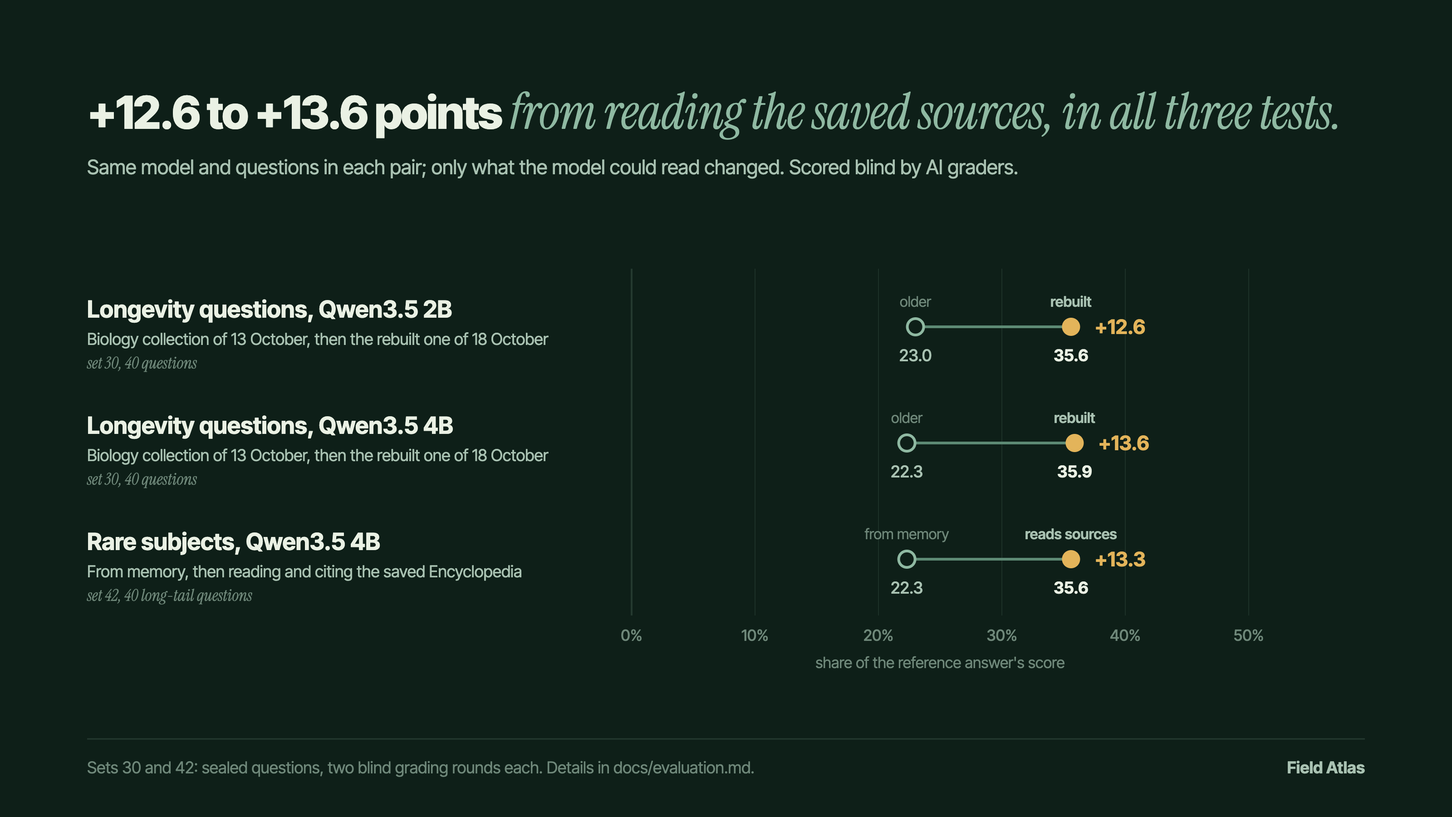
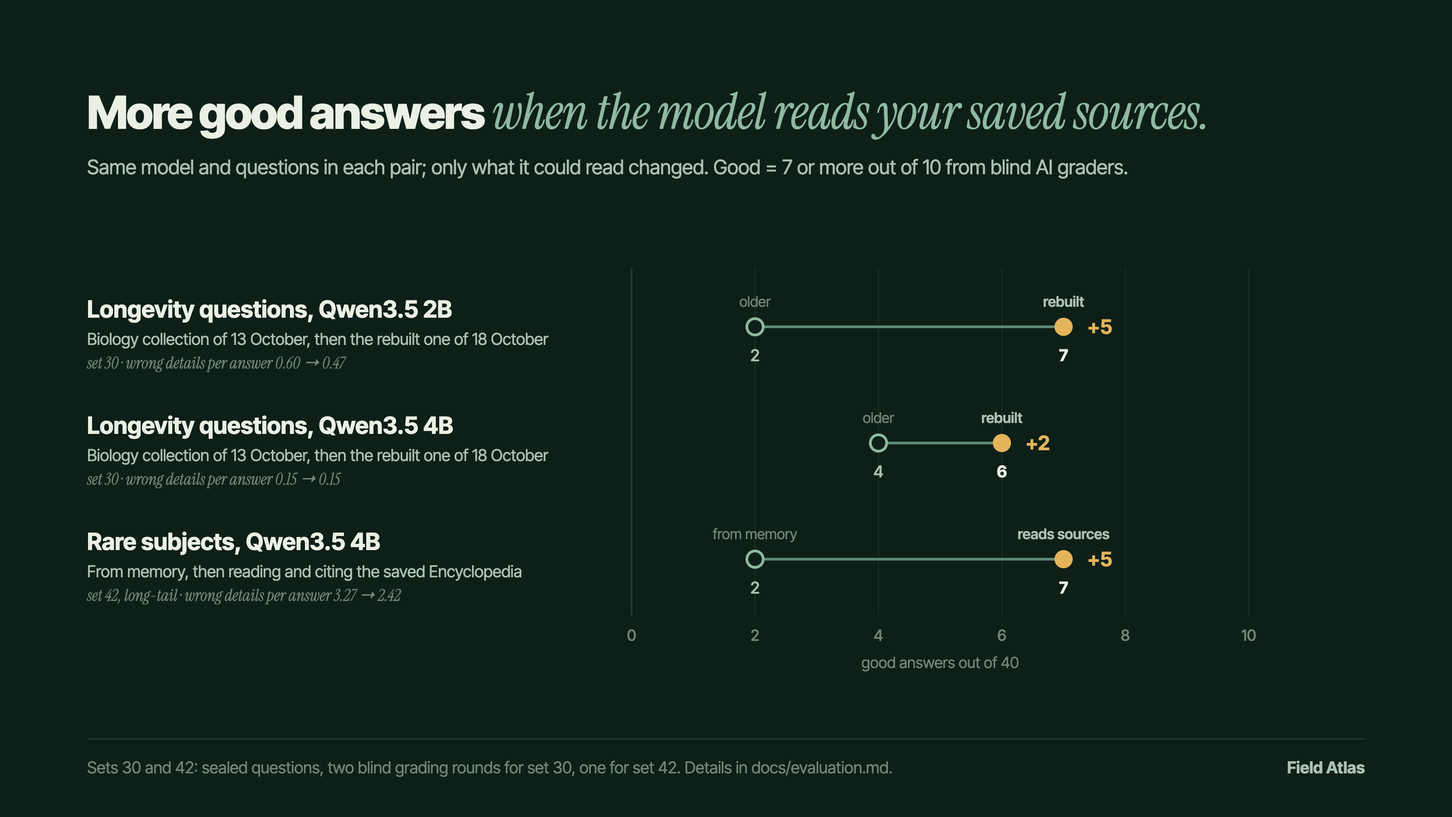
Count good answers, and show storage with everything installed
Results now lead with how many questions get a good answer (7 or more out
of 10 from the blind graders) and how many wrong details an answer
carries. On set 37: Gemma 4 26B 27 of 40 (0.44 wrong details per answer),
Qwen3.5 4B 8 (1.94), Qwen3.5 2B 2 (0.71). The rebuilt Biology collection
took the 2B from 2 to 7 good answers and the 4B from 4 to 6; reading the
Encyclopedia took the 4B from 2 to 7 on rare subjects.

With all three models, every collection and the voice installed, Android
reports 47.58 GB. The README, release notes, MODELS, DATASETS, the
how-it-works page and its figures use these counts.

diff --git a/tools/charts/make_charts.py b/tools/charts/make_charts.py
@@ -109,22 +109,32 @@ def axis(x_of, ticks, top, base_y, caption):
     return out
 
 
+def axis_counts(x_of, ticks, top, base_y, caption):
+    out = ""
+    for v in ticks:
+        x = x_of(v)
+        out += f'<line x1="{x:.1f}" y1="{top}" x2="{x:.1f}" y2="{base_y}" stroke="{RULE if v == ticks[0] else GRID}" stroke-width="{2 if v == ticks[0] else 1}"/>'
+        out += text(x, base_y + 28, f"{v}", 17, FAINT, 500, anchor="middle")
+    out += text((x_of(ticks[0]) + x_of(ticks[-1])) / 2, base_y + 58, caption, 17, FAINT, anchor="middle")
+    return out
+
+
 def ladder(data):
+    # Counted the way Field Atlas measures itself: how many questions got a good answer (7 or more out of 10 from
+    # blind graders), beside how many wrong details an answer carries.
     d = data["ladder"]
     rows = d["rows"]
-    shares = ", ".join(f"{r['share']:.0f}%" for r in rows)
-    body = heading(
-        (f"{shares},", f" the same {d['questions']} questions on three sizes of phone."),
-        "Each answer scored against a web-researched reference answer by AI graders that did not know which setup wrote it.",
-    )
+    n = d["questions"]
+    counts = ", ".join(str(r["good"]) for r in rows[:-1]) + " and " + str(rows[-1]["good"])
+    body = heading((f"{counts} good answers out of {n},", " by phone size."), d["method"])
     top, row_h, bar_h = 300, 132, 44
     scale_x, scale_w = X0 + 470, 720
-    base_y = top + row_h * len(rows) - 20
 
     def x_of(v):
-        return scale_x + scale_w * v / 100
+        return scale_x + scale_w * v / n
 
-    body += axis(x_of, [0, 25, 50, 75, 100], top - 4, base_y, "share of the reference answer's score")
+    base_y = top + row_h * len(rows) - 20
+    body += axis_counts(x_of, list(range(0, n + 1, 10)), top - 4, base_y, f"questions out of {n} with a good answer")
     body += text(X1, top - 2, "wrong details", 17, FAINT, 600, anchor="end")
     body += text(X1, top + 20, "per answer", 17, FAINT, 600, anchor="end")
     fills = [SAGE_1, SAGE_2, AMBER]
@@ -133,55 +143,48 @@ def ladder(data):
         best = i == len(rows) - 1
         body += text(X0, y + 22, r["model"], 27, INK, 700)
         body += text(X0, y + 52, f"{r['phone']}, {r['route']}", 18, DIM)
-        w = x_of(r["share"]) - scale_x
+        w = max(x_of(r["good"]) - scale_x, 3)
         body += f'<rect x="{scale_x}" y="{y}" width="{w:.1f}" height="{bar_h}" rx="2" fill="{fills[i % 3]}"/>'
-        body += text(scale_x + w + 14, y + 32, f"{r['share']:.1f}%", 27, AMBER if best else INK, 700)
+        body += text(scale_x + w + 14, y + 32, f"{r['good']} of {n}", 27, AMBER if best else INK, 700)
         body += text(X1, y + 32, f"{r['errors']:.2f}", 27, DIM, 600, anchor="end")
-    return frame(body, "Answer quality by phone size", d["sourceLine"])
+    return frame(body, "Good answers by phone size", d["sourceLine"])
 
 
 def collections(data):
     d = data["collections"]
     rows = d["rows"]
-    gains = [r["after"] - r["before"] for r in rows]
-    body = heading(
-        (f"+{min(gains):.1f} to +{max(gains):.1f} points", " from reading the saved sources, in all three tests."),
-        "Same model and questions in each pair; only what the model could read changed. Scored blind by AI graders.",
-    )
+    n = d["questions"]
+    body = heading(("More good answers", " when the model reads your saved sources."), d["method"])
     top, row_h = 300, 128
-    scale_x, scale_w, lo, hi = X0 + 600, 680, 0, 50
-    base_y = top + row_h * len(rows) - 6
+    scale_x, scale_w, lo, hi = X0 + 600, 680, 0, 10
 
     def sx(v):
         return scale_x + scale_w * (v - lo) / (hi - lo)
 
-    body += axis(sx, list(range(lo, hi + 1, 10)), top - 4, base_y, "share of the reference answer's score")
+    base_y = top + row_h * len(rows) - 6
+    body += axis_counts(sx, list(range(lo, hi + 1, 2)), top - 4, base_y, f"good answers out of {n}")
     for i, r in enumerate(rows):
         y = top + 26 + i * row_h
         cy = y + 34
         body += text(X0, y + 24, r["label"], 26, INK, 700)
         body += text(X0, y + 54, r["detail"], 18, DIM)
-        body += text(X0, y + 80, r["set"], 18, FAINT, italic=True, family=SERIF)
+        body += text(X0, y + 80, f"{r['set']} · wrong details per answer {r['errorsBefore']:.2f} → {r['errorsAfter']:.2f}", 18, FAINT, italic=True, family=SERIF)
         a, b = sx(r["before"]), sx(r["after"])
         body += f'<line x1="{a:.1f}" y1="{cy}" x2="{b:.1f}" y2="{cy}" stroke="{SAGE_2}" stroke-width="3"/>'
         body += f'<circle cx="{a:.1f}" cy="{cy}" r="9" fill="{GROUND}" stroke="{SAGE_3}" stroke-width="3"/>'
         body += f'<circle cx="{b:.1f}" cy="{cy}" r="10" fill="{AMBER}"/>'
         body += text(a, cy - 22, r["beforeLabel"], 16, FAINT, anchor="middle")
-        body += text(a, cy + 38, f"{r['before']:.1f}", 18, DIM, 500, anchor="middle")
+        body += text(a, cy + 38, f"{r['before']}", 18, DIM, 500, anchor="middle")
         body += text(b, cy - 22, r["afterLabel"], 16, DIM, 600, anchor="middle")
-        body += text(b, cy + 38, f"{r['after']:.1f}", 18, INK, 700, anchor="middle")
-        body += text(b + 26, cy + 8, f"+{r['after'] - r['before']:.1f}", 22, AMBER, 700)
+        body += text(b, cy + 38, f"{r['after']}", 18, INK, 700, anchor="middle")
+        body += text(b + 26, cy + 8, f"+{r['after'] - r['before']}", 22, AMBER, 700)
     return frame(body, "What the saved sources add", d["sourceLine"])
 
 
 def storage(data):
     d = data["storage"]
     budget = d["budgetGB"]
-    used = sum(p["gb"] for p in d["parts"])
-    body = heading(
-        (f"{used:.1f} GB of {budget},", " with every model, collection and voice installed."),
-        "Both answer models, all seven collections and the natural voice, downloaded through the app on a 12 GB Android emulator.",
-    )
+    body = heading((f"{d['measuredGB']:.2f} GB of {budget},", " with every model, collection and voice installed."), d["method"])
     y0, bh = 400, 60
     bw = X1 - X0
 
@@ -201,19 +204,17 @@ def storage(data):
     # Label the segments where they are instead of in a legend.
     (a0, b0, p0), (a1, b1, p1) = segments[0], segments[1]
     body += text(a0 + 18, y0 + 39, f"{p0['label']}, {p0['gb']:.2f} GB", 21, GROUND, 700)
-    mid1 = (a1 + b1) / 2
-    body += f'<line x1="{mid1:.1f}" y1="{y0 - 6}" x2="{mid1:.1f}" y2="{y0 - 28}" stroke="{SAGE_3}" stroke-width="1.5"/>'
-    body += text(mid1 + 8, y0 - 38, f"{p1['label']}, {p1['gb']:.2f} GB", 18, INK, 600, anchor="end")
+    body += text((a1 + b1) / 2, y0 + 39, f"{p1['label']}, {p1['gb']:.2f} GB", 19, GROUND, 700, anchor="middle")
     rest = segments[2:]
     small = sum(p["gb"] for _, _, p in rest)
     mid2 = (rest[0][0] + rest[-1][1]) / 2
     body += f'<line x1="{mid2:.1f}" y1="{y0 + bh + 6}" x2="{mid2:.1f}" y2="{y0 + bh + 28}" stroke="{AMBER}" stroke-width="1.5"/>'
     rest_label = " and ".join(p["label"].lower() for _, _, p in rest)
-    body += text(mid2, y0 + bh + 52, f"{rest_label}, {small * 1000:.0f} MB", 18, INK, 600, anchor="middle")
-    gm = gx(d["withGemmaGB"])
-    body += f'<line x1="{gm:.1f}" y1="{y0 - 72}" x2="{gm:.1f}" y2="{y0 + bh + 28}" stroke="{DIM}" stroke-width="2" stroke-dasharray="5 5"/>'
-    body += text(gm + 12, y0 - 58, "with Gemma 4 26B", 18, DIM, 600)
-    body += text(gm + 12, y0 - 34, f"about {d['withGemmaGB']} GB", 18, DIM, 600)
+    body += text(mid2 + 12, y0 + bh + 52, f"{rest_label}, {small * 1000:.0f} MB", 18, INK, 600, anchor="end")
+    # What is left under the limit, named above its own slice of the bar.
+    free = budget - d["measuredGB"]
+    body += f'<line x1="{(gx(d["measuredGB"]) + X1) / 2:.1f}" y1="{y0 - 6}" x2="{(gx(d["measuredGB"]) + X1) / 2:.1f}" y2="{y0 - 28}" stroke="{DIM}" stroke-width="1.5"/>'
+    body += text(X1, y0 - 38, f"{free:.2f} GB to spare", 19, DIM, 600, anchor="end")
     for gb in range(0, budget + 1, 10):
         anchor = "start" if gb == 0 else ("end" if gb == budget else "middle")
         body += text(gx(gb), y0 + bh + 100, f"{gb} GB", 16, FAINT, anchor=anchor)

diff --git a/docs/releases/current.md b/docs/releases/current.md
@@ -45,8 +45,8 @@ on the phone, with no account and nothing sent anywhere.
 - **Rare subjects are read from the collections.** A subject few readers meet — one the Simple
   English edition lacks and that is named in few saved passages, or one a specialist collection
   holds — is answered from the saved sources, cited sentence by sentence, instead of from the
-  model's memory, which invents on such subjects. On 40 obscure questions graded blind the 4B went
-  from 22% to 36% of web-and-AI answers; famous subjects are untouched
+  model's memory, which invents on such subjects. On 40 obscure questions graded blind the 4B gave a good answer to 7 instead of 2,
+  with fewer wrong details; famous subjects are untouched
   ([details](../evaluation.md#reading-the-sources-for-subjects-few-readers-meet-october-20)).
 - **Every answer in one shape, sources at the foot.** An answer written from the model's own knowledge
   opens with a short paragraph that answers outright, then **Key facts** as bullets, then **Caveats**
@@ -60,12 +60,12 @@ on the phone, with no account and nothing sent anywhere.
   less for GPS; the progress line gives the measured range of recent answers ("Usually 3–4 min").
 - **A much larger Biology & longevity collection.** It now holds 48,286 open-access ageing and
   longevity papers from PubMed Central, each under CC BY or CC0, with genetics summaries and three
-  more ageing databases: 900,714 passages, a 1.08 GB download (2.86 GB installed). On 40 new
-  longevity questions graded blind, answers went from 23% to 36% of web-and-AI answers with
-  either model. Phones with the earlier edition are offered it as an update in Library.
+  more ageing databases: 900,714 passages, a 1.08 GB download (2.86 GB installed). On 40 new longevity questions graded blind, good answers went from 2 to 7 with
+  Qwen3.5 2B and from 4 to 6 with Qwen3.5 4B. Phones with the earlier edition are offered it as an update in Library.
 - **Questions about your own files answer far more often.** A question asked with a file reads more of
   it, and a correct answer is no longer withheld by the model's own review. On 24 new file questions
-  graded blind, answers went from 32% to 41% of web-and-AI answers, and refusals from 7 to 1
+  graded blind, refusals went from 7 to 1 and good answers from 4 to 5, with more wrong details
+  to check
   ([details](../evaluation.md#questions-about-your-own-files-october-18)). Asking to "use my library"
   in the question adds the downloaded collections as before. A question about taking a medicine in
   the file (a dose, how often, until when, a missed dose) also shows the file's own lines on it, word
@@ -74,8 +74,8 @@ on the phone, with no account and nothing sent anywhere.
   The answer itself is not changed, so a wrong sentence in it stays: read the quoted lines.
 - **An answer instead of "the excerpts do not say".** When none of the passages found is about the
   question, the model now answers from what it knows, labelled as not checked against your sources, instead of saying
-  the passages miss it. On the 8 answers this changed, graded blind, they went from 10% to 67% of
-  web-and-AI answers, with more wrong details to check
+  the passages miss it. On the 8 answers this changed, graded blind, 5 of the 8 became good answers, where none had been, with more wrong
+  details to check
   ([details](../evaluation.md#answering-when-the-excerpts-miss-the-question-october-19)). A
   swallowed battery, however it is described, opens the poisoning guide.
 - **Word problems that name places** ("leaves Tokyo at 17:05 … UTC+9") are worked from their own
@@ -87,8 +87,8 @@ on the phone, with no account and nothing sent anywhere.
 - **Answers from the model's own knowledge.** With Qwen3.5 4B or Gemma 4 26B, an ordinary question
   is answered from what the model knows, with one line under it saying so and what was checked
   ("From the model's knowledge; 2 figures match your sources"), and the passages found listed under
-  it to check. On 40 new questions graded blind, the 4B went from 33.7% to 41.8% of web-and-AI
-  answers, and Gemma 4 26B, which reasons before it answers, reached 70.2%
+  it to check. On 40 new questions graded blind, the 4B gave a good answer to 8 instead
+  of 4, and Gemma 4 26B, which reasons before it answers, to 27
   ([details](../evaluation.md#answers-from-the-models-own-knowledge-and-a-model-for-12-gb-phones-october-19-20)).
   These answers have more wrong details than cited ones, so check the passages. Qwen3.5 2B still
   answers from the passages, with citations. Emergencies, places, files, phrases and calculations
@@ -118,17 +118,16 @@ on the phone, with no account and nothing sent anywhere.
 
 ## How good is it?
 
-- **With the new answer models:** on 40 new questions graded blind (set 37), Gemma 4 26B scores
-  **70.2%** of web-and-AI answers and Qwen3.5 4B **41.8%**, against 33.7% for the 4B and 26.0% for
-  the 2B answering from the passages
+- **With the new answer models:** on 40 new questions graded blind (set 37), Gemma 4 26B gives a good answer to
+  **27 of 40** and Qwen3.5 4B to **8**, against 4 for the 4B and 2 for the 2B answering from the passages
   ([details](../evaluation.md#answers-from-the-models-own-knowledge-and-a-model-for-12-gb-phones-october-19-20)).
   The 4B's answers have more wrong details than the 2B's cited ones (1.94 per answer against 0.71);
   Gemma's have fewer (0.44). These scores measure what each model knows: its answer is written
   without the saved passages, which are listed under it to check, so they do not show the
   collections improving those answers. They come from runs on a computer, not on a phone.
-- **Against web-and-AI answers:** on 120 new questions (two sets written after the changes and
-  graded blind twice), 1.4.2 scores **36.9%** of the web-and-AI answers with Qwen3.5 2B and
-  **38.2%** with Qwen3.5 4B. That is below the bounty's bar
+- **Citing the passages:** on 120 new questions (two sets written after the changes and
+  graded blind twice), 1.4.2 gives a good answer to **27** with Qwen3.5 2B and **28** with
+  Qwen3.5 4B, the 4B with half the wrong details (0.30 against 0.62 per answer). That is below the bounty's bar
   ([details](../evaluation.md#142-release-candidate-on-fresh-questions-october-17-18)).
 - **Single questions are where 1.4.1 left them.** 1.4.1 scored 29% on an earlier, harder set. On
   the same 60 questions, 1.4.1 scores 37.3% and 1.4.2 36.3%. The gains above are in follow-ups,

diff --git a/README.md b/README.md
@@ -81,35 +81,31 @@ file copied from another device: collections from Hugging Face
 
 ## How good is it?
 
-The bounty asks for an offline tool that is more than half as good as a web search plus a
-frontier AI model. We tested Field Atlas 1.4.2 on 120 new questions, in two sets written after the
-changes by AI models that had never seen the app's code, so the questions could not be tailored to
-what the app already handles well. Other AI models then scored each answer blind, on its own, and
-scored an answer researched on the web the same way. The result is Field Atlas's total as a share
-of the web answer's.
+We count how many questions get a **good answer** and how many **wrong details** an answer carries.
+Each question set is written blind and sealed before the app answers it. AI graders then score every
+answer from 0 to 10 next to a web-researched one, without knowing which setup wrote it, in two
+rounds. A good answer is one they score 7 or more. Every change is tested this way before it ships.
 
-- **36.9%** of the web-and-AI answers with Qwen3.5 2B and **38.2%** with Qwen3.5 4B, both answering
-  from the saved passages with citations. **Not there yet.** Citing, the 4B made half the factual
-  errors of the 2B (0.30 against 0.62 per answer).
-- **Answering from the model's own knowledge**, as the 4B and Gemma 4 26B now do: on 40 newer
-  questions (set 37), the 4B reached 41.8% against 26.0% for the cited 2B, but with more wrong
-  details (1.94 against 0.71 per answer), and Gemma 4 26B, reasoning first, 70.2% with 0.44. These
-  scores measure what the model knows: such an answer is written without the saved passages, which
-  are listed under it to check. They come from desktop runs; Gemma has been timed only on an Android
-  emulator, not on a 12 GB phone ([details](docs/evaluation.md#answers-from-the-models-own-knowledge-and-a-model-for-12-gb-phones-october-19-20)).
-- **Single questions are about where 1.4.1 left them.** On the same 60 questions 1.4.1 scores 37.3%
-  and 1.4.2 36.3%. (1.4.1's published 29% came from a harder set.) What 1.4.2 improves is
-  follow-up questions, emergencies told as statements, word problems and the 4B on 8 GB phones.
-- **Strongest:** quick facts (55%) and emergencies (54%).
-- **Weakest:** places in a named city (14%), cryptography (22%), explanations and synthesis (23%).
+![Good answers out of 40 sealed questions: Qwen3.5 2B 2, Qwen3.5 4B 8, Gemma 4 26B 27](docs/images/fieldatlas-models.png)
 
-![Share of the reference answer's score on 40 sealed questions: Qwen3.5 2B 26.0%, Qwen3.5 4B 41.8%, Gemma 4 26B 70.2%](docs/images/fieldatlas-models.png)
+- **Gemma 4 26B, on 12 GB phones:** a good answer to 27 of 40 new questions (set 37), with 0.44
+  wrong details per answer. It reasons first, then answers from what it knows.
+- **Qwen3.5 4B, on 6 and 8 GB phones:** 8 of 40, with 1.94 wrong details per answer. It answers from
+  what it knows, so it says more and gets more details wrong; the passages found are listed under
+  each answer to check it.
+- **Qwen3.5 2B, on 4 GB phones:** 2 of 40, with 0.71 wrong details per answer. It writes only from
+  the saved passages and cites them.
+- **Saved sources add good answers.** The rebuilt Biology collection took the 2B from 2 to 7 good
+  answers on 40 longevity questions; reading the Encyclopedia for subjects few people write about
+  took the 4B from 2 to 7 on 40 such questions, with fewer wrong details
+  ([how it works](docs/how-it-works.md)).
 
-The graders and the reference answers come from AI models of one family, so treat these numbers as
-our own measurement, not an independent score. Every question, answer and grade is published in
-[docs/fieldtest/results-1.4.2](docs/fieldtest/results-1.4.2/), and the
-[evaluation](docs/evaluation.md#142-release-candidate-on-fresh-questions-october-17-18) explains the
-method, including two changes that were tried and not adopted.
+These are desktop runs of the app's own answering code. Gemma has been timed only on an Android
+emulator, not on a 12 GB phone. The graders and the reference answers come from AI models of one
+family, so treat these numbers as our own measurement, not an independent score. Every question,
+answer and grade is published in [docs/fieldtest](docs/fieldtest/), and the
+[evaluation](docs/evaluation.md) explains each test, including changes that were tried and not
+adopted.
 
 ## Good to know
 
@@ -117,9 +113,10 @@ method, including two changes that were tried and not adopted.
   built from saved data take seconds.
 - **Answers can be wrong.** Open the cited passages to check them. Nothing here is medical advice.
 - Map listings, opening hours and menus can be out of date.
-- **Within the bounty's limits:** with both models, every collection and the voice installed, the app
-  takes 37.0 GB of storage and, on a 12 GB Android emulator in airplane mode, at most 6.8 GB of
-  memory while answering ([details](docs/evaluation.md#142-at-the-bountys-limits-on-an-android-emulator-october-18)).
+- **Within the bounty's limits:** with all three models, every collection and the voice installed,
+  Android reports 47.58 GB of storage for the app; on a 12 GB Android emulator in airplane mode it used
+  at most 6.8 GB of memory while answering with the 4B
+  ([details](docs/evaluation.md#good-answers-and-storage-with-everything-installed-october-21)).
 - Tested on a Redmi 13C (6 GB, Android 13) and that emulator. Not yet tested on a Pixel, on
   GrapheneOS or on a real 8 GB phone.
 

diff --git a/MODELS.md b/MODELS.md
@@ -49,8 +49,8 @@ Google's Gemma 4 E2B (QAT Q4_0, pinned at `google/gemma-4-E2B-it-qat-q4_0-gguf` 
[1 lines of base64/hex data omitted]
 after 1.4.0 and was never released.
 
-- On 180 development questions it seemed better: 44.2% of the reference answers against 40.7%
-  for Qwen3.5 2B, with half as many factual errors. Those questions had been seen during
+- On 180 development questions it seemed better than Qwen3.5 2B, with half as many factual
+  errors. Those questions had been seen during
   development.
 - On a Redmi 13C, 20 fresh questions were asked in the installed app with each model and
   graded blind by two graders. Qwen3.5 2B scored 4.65 of 10 against 3.75. Gemma still made fewer
@@ -65,8 +65,7 @@ Gemma 4 E2B is therefore not offered.
 Version 1.4.0 offered Qwen3.5 4B on phones with 8 GB of memory, and 1.4.1 did not. Version 1.4.2
 offers it from 6 GB, first in setup, with Qwen3.5 2B still listed below it; on a phone with less
 memory only the 2B is offered. Citing the saved passages, on 120 new questions graded blind, the
-4B made half the factual errors of the 2B (0.30 against 0.62 per answer) and scored 38.2% of the
-web-and-AI reference against 36.9%
+4B made half the factual errors of the 2B (0.30 against 0.62 per answer) and gave a good answer to 28 of them against 27
 ([details](docs/evaluation.md#142-release-candidate-on-fresh-questions-october-17-18)). In 1.4.2 it
 answers ordinary questions from its own knowledge instead, with the passages listed under the
 answer: on 40 newer questions (set 37) it scored 41.8% against 26.0% for the cited 2B, with more
@@ -84,7 +83,7 @@ On a phone with 12 GB of memory, setup offers Gemma 4 26B-A4B first: unsloth's U
 `google/gemma-4-26B-A4B-it` (10.5 GB, Apache-2.0, SHA-256
[1 lines of base64/hex data omitted]
 [`models/compact-gemma-4-26b-a4b.example.json`](models/compact-gemma-4-26b-a4b.example.json). It reasons
-before it answers and answers from its own knowledge: 70.2% of the web-and-AI reference on set 37,
+before it answers and answers from its own knowledge: a good answer to 27 of the 40 questions of set 37,
 with 0.44 wrong details per answer, on the desktop pipeline. It has run on a 12 GB Android emulator
 (median 100 seconds an answer), not on a 12 GB phone, and it has no `.fapack` yet: setup downloads
 the pinned file and checks its size and SHA-256.

diff --git a/docs/evaluation.md b/docs/evaluation.md
@@ -1,5 +1,35 @@
 # Evaluation
 
+## Good answers, and storage with everything installed (October 21)
+
+From here on, results lead with two counts: how many questions get a **good answer**, one that the
+blind graders score 7 or more out of 10, and how many **wrong details** the graders note per answer.
+The sections below this one also give each setup's total score as a share of the reference
+answers' total, as it was recorded at the time.
+
+| Set 37, 40 questions, two rounds of eight graders | Good answers | Wrong details per answer |
+| --- | ---: | ---: |
+| Qwen3.5 2B, cites the passages (4 GB phones) | 2 | 0.71 |
+| Qwen3.5 4B, from its own knowledge (6 and 8 GB) | 8 | 1.94 |
+| Gemma 4 26B, reasons first (12 GB) | 27 | 0.44 |
+
+| Same model and questions, only what it could read changed | Good answers before → after | Wrong details per answer |
+| --- | ---: | ---: |
+| Set 30, 2B, Biology collection of 13 October → 18 October | 2 → 7 of 40 | 0.60 → 0.47 |
+| Set 30, 4B, the same | 4 → 6 of 40 | 0.15 → 0.15 |
+| Set 42 long-tail, 4B, from memory → reading the Encyclopedia | 2 → 7 of 40 | 3.27 → 2.42 |
+
+A reasoning model is now given the instruction without the answer layout the other models use, and
+an answer its reasoning cuts short is asked for again with reasoning off; Gemma's set 37 answers were
+written that way.
+
+**Storage with everything installed.** On the 12 GB Android emulator, with Qwen3.5 2B, Qwen3.5 4B,
+Gemma 4 26B, all seven collections and the natural voice installed through the app, Android's own
+Settings › Apps › Field Atlas › Storage showed 47.58 GB: app 173 MB, user data 47.40 GB, cache
+618 kB. The Encyclopedia is a 10.64 GB download that unpacks to 24.35 GB, and for a while it holds
+both; installed after all three models it would pass 50 GB, so the app refuses it before
+downloading, and says that a model can be removed and added back afterwards.
+
 ## Reading the sources for subjects few readers meet (October 20)
 
 A model that answers from memory knows the Eiffel Tower and invents the Pantelegraph. On the earlier sets the 4B's

diff --git a/docs/how-it-works.md b/docs/how-it-works.md
@@ -94,14 +94,15 @@ to the full passage. Any answer can be read aloud with an offline voice.
 
 ## Measured results
 
-These charts use blind grading from [the evaluation](evaluation.md). Each answer was scored
-against a web-researched reference answer by AI graders that did not know which setup wrote it.
+We count how many questions get a good answer, one that blind AI graders score 7 or more out of
+10 next to a web-researched answer, and how many wrong details an answer carries. The tests and
+their records are in [the evaluation](evaluation.md).
 
-![Share of the reference answer's score on 40 sealed questions: Qwen3.5 2B 26.0%, Qwen3.5 4B 41.8%, Gemma 4 26B 70.2%](images/fieldatlas-models.png)
+![Good answers out of 40 sealed questions: Qwen3.5 2B 2, Qwen3.5 4B 8, Gemma 4 26B 27](images/fieldatlas-models.png)
 
-![Reading saved sources added 12.6 to 13.6 points in three tests: two Biology collection editions and rare subjects read from the Encyclopedia](images/fieldatlas-collections.png)
+![More good answers when the model reads saved sources: Biology rebuild 2 to 7 and 4 to 6, rare subjects 2 to 7](images/fieldatlas-collections.png)
 
-![Everything installed takes 37.0 GB of the 50 GB allowed](images/fieldatlas-storage.png)
+![47.58 GB of the 50 GB allowed, with every model, collection and voice installed](images/fieldatlas-storage.png)
 
 ## Where it lives in the code
 

diff --git a/DATASETS.md b/DATASETS.md
@@ -365,8 +365,9 @@ the pack and beside it on Hugging Face, carries the credits and licences of ever
 OpenStax books considered for it, Anatomy and Physiology 2e and Microbiology, were left out: their
 pinned revisions are CC BY-NC-SA, which does not allow this use.
 
-On 40 new longevity questions, sealed before the collection was used and graded blind, answers
-went from 23% to 36% of web-and-AI answers with either model
+On 40 new longevity questions, sealed before the collection was used and graded blind, the app
+gave a good answer to 7 instead of 2 with Qwen3.5 2B and to 6 instead of 4 with
+Qwen3.5 4B
 ([details](docs/evaluation.md#biology--longevity-on-40-longevity-questions-october-18)).
 Nothing in this collection is clinical guidance, and a finding in mice or worms is not evidence
 that the same works in people.
